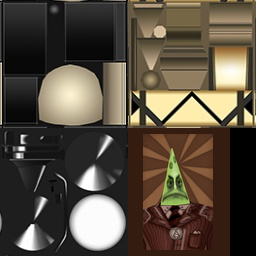
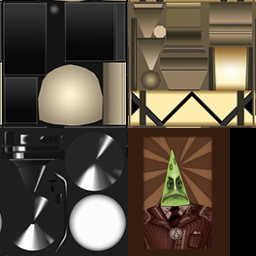
Bossbot office: Arthur's new texture pack replaces the earlier one (one retexture path, also the battle room painting)
Claude-Session: https://claude.ai/code/session_01AWgnMusiKpSSPNsztNMwvB

Changed region(s): [[0.5312, 0.5, 0.8438, 0.875]]

diff --git a/toontown/building/DistributedBuilding.py b/toontown/building/DistributedBuilding.py
@@ -24,20 +24,6 @@ FO_DICT = {'s': 'tt_m_ara_cbe_fieldOfficeMoverShaker',
  'm': 'tt_m_ara_cbe_fieldOfficeMoverShaker',
  'c': 'tt_m_ara_cbe_fieldOfficeMoverShaker'}
 
-# Arthur's Bossbot field office textures: the Mover & Shaker office's
-# palettes with Bossbot art (its portrait and trim), on the Bossbot offices
-# only; the Sellbot and Cashbot ones keep theirs.
-BOSSBOT_FO_TEXTURES = {'cogdominium_palette_3cmla_4': 'phase_5/maps/ttoff_bossbot_fo_palette_3cmla_4.jpg',
-                       'cogdominium_palette_3cmla_5': 'phase_5/maps/ttoff_bossbot_fo_palette_3cmla_5.jpg'}
-
-
-def retextureBossbotOffice(np):
-    for tex in np.findAllTextures():
-        for old, path in BOSSBOT_FO_TEXTURES.items():
-            if old in tex.getName() or old in tex.getFilename().getBasename():
-                np.replaceTexture(tex, loader.loadTexture(path))
-
-
 def isToonFlat(name):
     return name[0] == 't' and name.find('_landmark_') == -1
 
@@ -577,8 +563,6 @@ class DistributedBuilding(DistributedObject.DistributedObject):
         zoneId = ZoneUtil.getTrueZoneId(zoneId, self.interiorZoneId)
         newParentNP = base.cr.playGame.hood.loader.zoneDict[zoneId]
         suitBuildingNP = suitNP.copyTo(newParentNP)
-        if chr(self.track) == 'c':
-            retextureBossbotOffice(suitBuildingNP)
         buildingTitle = dnaData.getBlock(self.block).title
         if not buildingTitle:
             buildingTitle = TTLocalizer.Cogdominiums
@@ -631,8 +615,8 @@ class DistributedBuilding(DistributedObject.DistributedObject):
                 np.replaceTexture(old, new)
 
     # A Bossbot field office shares the Mover & Shaker building too: it gets
-    # Arthur's Big Cheese poster and brown trim (his texture pack, added
-    # under new names: the shared textures themselves are left alone).
+    # Arthur's Bossbot poster and trim (his texture pack, updated 2026-11-04,
+    # added under new names: the shared textures themselves are left alone).
     BossbotFieldOfficeTextures = {'cogdominium_palette_3cmla_4': 'phase_5/maps/ttoff_cogdominium_palette_bossbot_4.jpg',
                                   'cogdominium_palette_3cmla_5': 'phase_5/maps/ttoff_cogdominium_palette_bossbot_5.jpg'}
 
